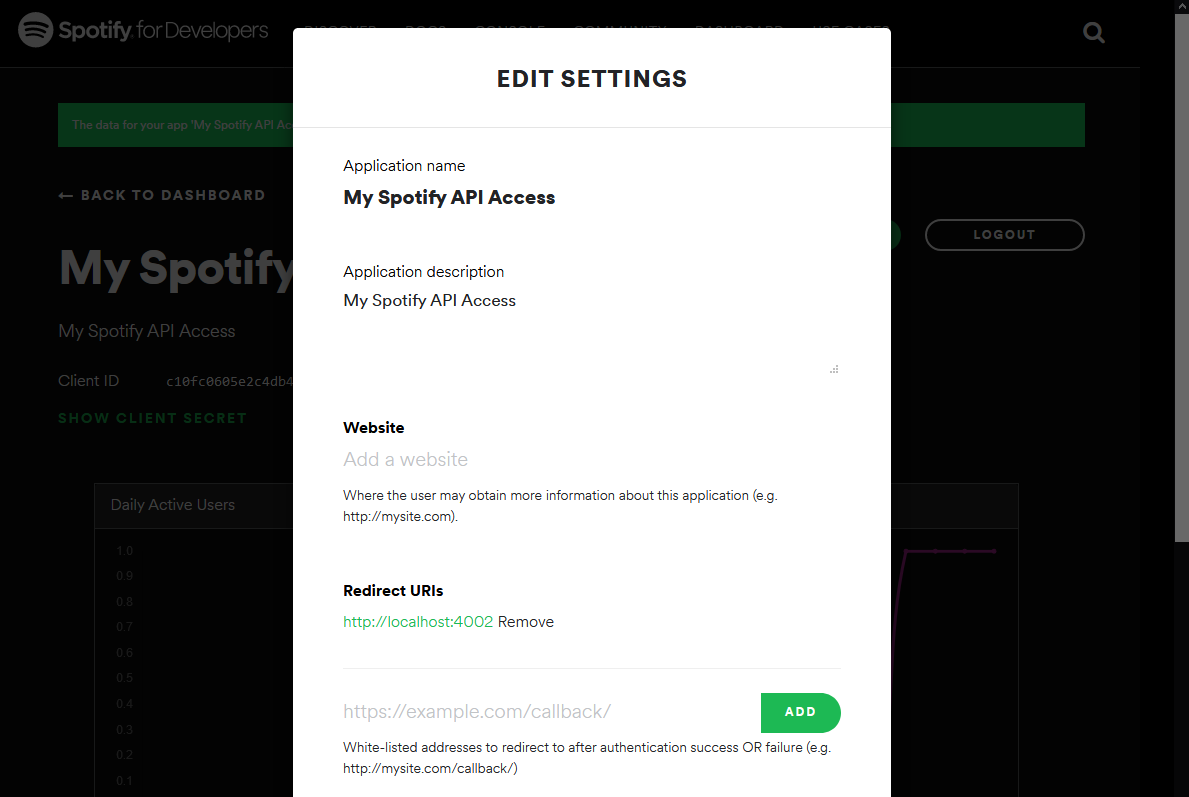
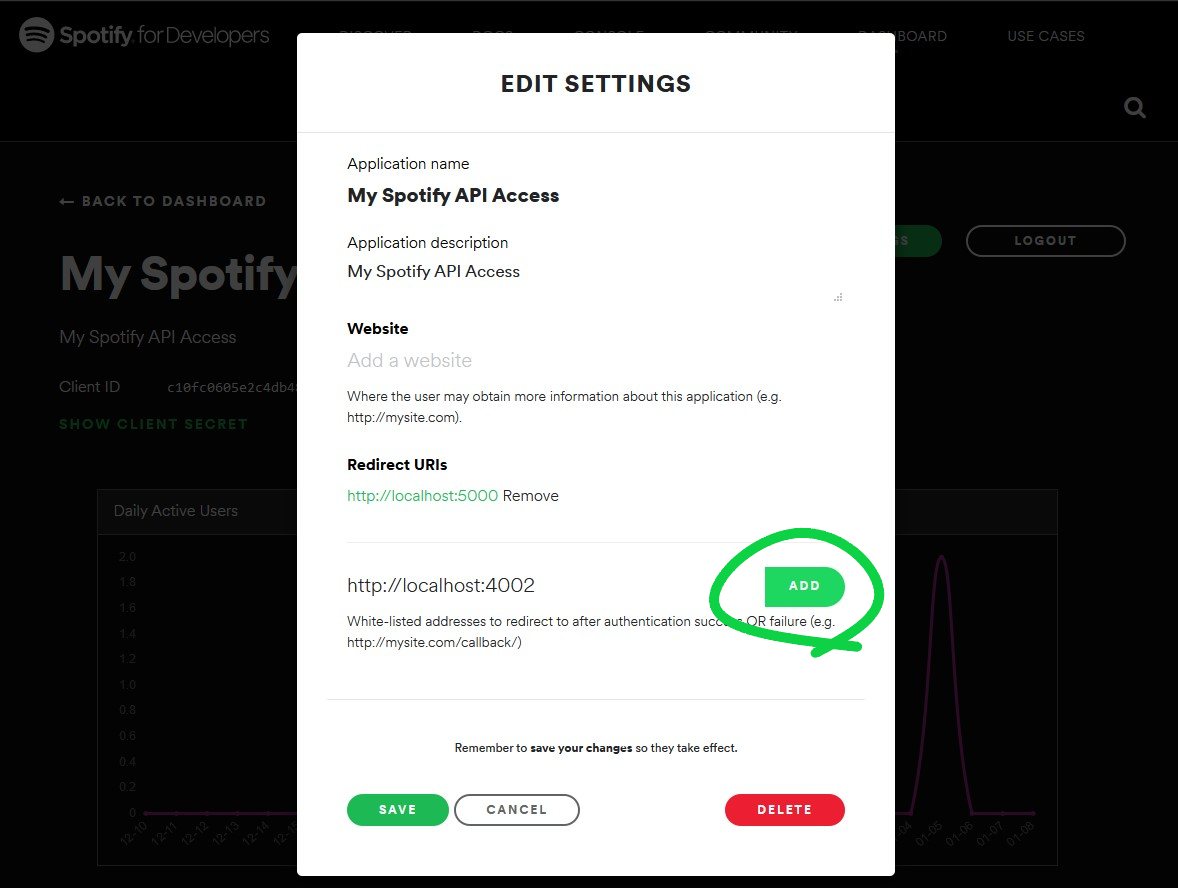
faq

diff --git a/docs/faq.html b/docs/faq.html
@@ -241,15 +241,27 @@ You will get a CD with songs ordered in the same order than the album or the one
 
 <p align="center"><img alt="Spotify API Dashboard - Edit App" src="./assets/images/faq_spotify_api_edit_app.png" /></p>
 
-<p>Add a <em>Redirect URI</em> with the value <strong>http://localhost:4002</strong>, click on <strong>Add</strong>, and on <strong>Save</strong> at the bottom.</p>
+<p>Add a <em>Redirect URI</em> :</p>
+
+<ul>
+  <li>By default, Spytify recommands <strong>http://localhost:4002</strong>, so you can use this one;</li>
+  <li>If port <code class="language-plaintext highlighter-rouge">4002</code> is not available on your computer, you can choose another one like <code class="language-plaintext highlighter-rouge">5000</code>;</li>
+  <li>If you have a proxy, enter your proxy URL instead of those mentionned above;</li>
+</ul>
+
+<p>Click on <strong>Add</strong>, and on <strong>Save</strong> at the bottom.</p>
 
 <p align="center"><img alt="Spotify API Dashboard - Set App" src="./assets/images/faq_spotify_api_dashboard.png" /></p>
 
-<p>On your app dashboard, copy your <em>Client ID</em> and <em>Client Secret</em> info to Spytify <em>Spotify API Credentials</em> setting form using the key 🔑 icon:</p>
+<p>Now, copy some information to Spytfiy to be able to connect Spotify API to Spytify.</p>
 
-<blockquote>
-  <p>Expand the <em>Show Client Secret</em> on the dashboard to reveal the key.</p>
-</blockquote>
+<p>Open Spytify settings, open <em>Spotify API Credentials</em> modal using the key 🔑 icon and copy those info from your Spotify App Dashboard :</p>
+
+<ul>
+  <li><em>Client ID</em></li>
+  <li><em>Client Secret</em> (expand the <em>Show Client Secret</em> on the dashboard to reveal the key.)</li>
+  <li><em>Redirect URI</em> (if you added an URI different than <code class="language-plaintext highlighter-rouge">http://locahost:4002</code>)</li>
+</ul>
 
 <p align="center"><img alt="Set Spotify API credentials in app" src="./assets/images/faq_spotify_credentials.png" /></p>
 </article>

diff --git a/docs/faq/MEDIA_DATA_FROM_SPOTIFY_API.html b/docs/faq/MEDIA_DATA_FROM_SPOTIFY_API.html
@@ -43,15 +43,27 @@
 
 <p align="center"><img alt="Spotify API Dashboard - Edit App" src="./assets/images/faq_spotify_api_edit_app.png" /></p>
 
-<p>Add a <em>Redirect URI</em> with the value <strong>http://localhost:4002</strong>, click on <strong>Add</strong>, and on <strong>Save</strong> at the bottom.</p>
+<p>Add a <em>Redirect URI</em> :</p>
+
+<ul>
+  <li>By default, Spytify recommands <strong>http://localhost:4002</strong>, so you can use this one;</li>
+  <li>If port <code class="language-plaintext highlighter-rouge">4002</code> is not available on your computer, you can choose another one like <code class="language-plaintext highlighter-rouge">5000</code>;</li>
+  <li>If you have a proxy, enter your proxy URL instead of those mentionned above;</li>
+</ul>
+
+<p>Click on <strong>Add</strong>, and on <strong>Save</strong> at the bottom.</p>
 
 <p align="center"><img alt="Spotify API Dashboard - Set App" src="./assets/images/faq_spotify_api_dashboard.png" /></p>
 
-<p>On your app dashboard, copy your <em>Client ID</em> and <em>Client Secret</em> info to Spytify <em>Spotify API Credentials</em> setting form using the key 🔑 icon:</p>
+<p>Now, copy some information to Spytfiy to be able to connect Spotify API to Spytify.</p>
 
-<blockquote>
-  <p>Expand the <em>Show Client Secret</em> on the dashboard to reveal the key.</p>
-</blockquote>
+<p>Open Spytify settings, open <em>Spotify API Credentials</em> modal using the key 🔑 icon and copy those info from your Spotify App Dashboard :</p>
+
+<ul>
+  <li><em>Client ID</em></li>
+  <li><em>Client Secret</em> (expand the <em>Show Client Secret</em> on the dashboard to reveal the key.)</li>
+  <li><em>Redirect URI</em> (if you added an URI different than <code class="language-plaintext highlighter-rouge">http://locahost:4002</code>)</li>
+</ul>
 
 <p align="center"><img alt="Set Spotify API credentials in app" src="./assets/images/faq_spotify_credentials.png" /></p>
 

diff --git a/_faq/MEDIA_DATA_FROM_SPOTIFY_API.md b/_faq/MEDIA_DATA_FROM_SPOTIFY_API.md
@@ -15,12 +15,22 @@ Once created, click on your new spotify application and click on _Edit the setti
 
 <p align="center"><img alt="Spotify API Dashboard - Edit App" src="./assets/images/faq_spotify_api_edit_app.png" /></p>
 
-Add a _Redirect URI_ with the value **http://localhost:4002**, click on **Add**, and on **Save** at the bottom.
+Add a _Redirect URI_ :
+
+- By default, Spytify recommands **http://localhost:4002**, so you can use this one;
+- If port `4002` is not available on your computer, you can choose another one like `5000`;
+- If you have a proxy, enter your proxy URL instead of those mentionned above;
+
+Click on **Add**, and on **Save** at the bottom.
 
 <p align="center"><img alt="Spotify API Dashboard - Set App" src="./assets/images/faq_spotify_api_dashboard.png" /></p>
 
-On your app dashboard, copy your _Client ID_ and _Client Secret_ info to Spytify _Spotify API Credentials_ setting form using the key 🔑 icon:
+Now, copy some information to Spytfiy to be able to connect Spotify API to Spytify.
 
-> Expand the _Show Client Secret_ on the dashboard to reveal the key.
+Open Spytify settings, open _Spotify API Credentials_ modal using the key 🔑 icon and copy those info from your Spotify App Dashboard :
+
+- _Client ID_
+- _Client Secret_ (expand the _Show Client Secret_ on the dashboard to reveal the key.)
+- _Redirect URI_ (if you added an URI different than `http://locahost:4002`)
 
 <p align="center"><img alt="Set Spotify API credentials in app" src="./assets/images/faq_spotify_credentials.png" /></p>
